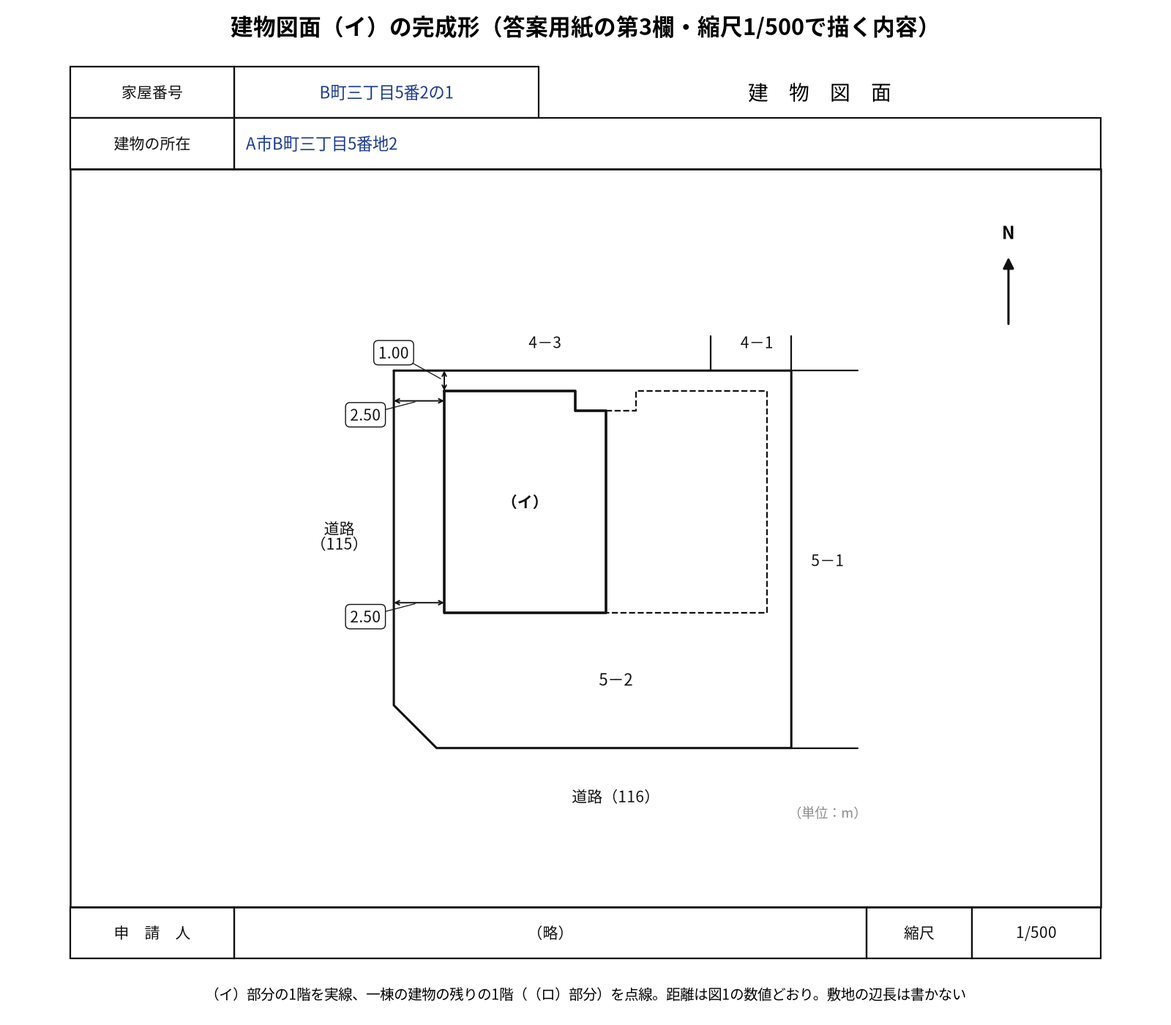
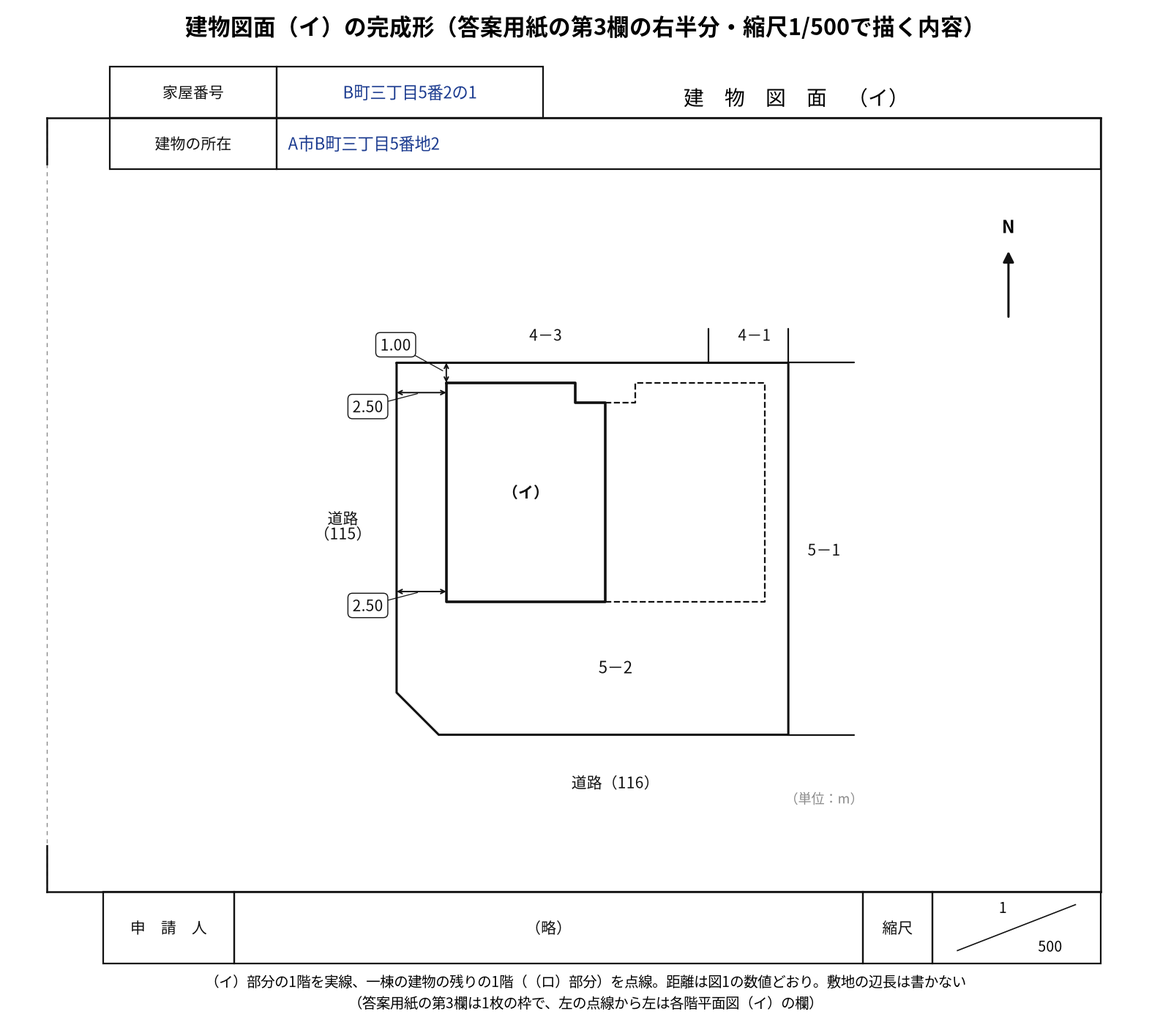
R3 Q22：試験の答案用紙の実物に合わせて第3欄の建物図面・各階平面図の枠を描き直した
第3欄は1枚の枠の左半分が各階平面図（イ）、右半分が建物図面（イ）で、家屋番号・建物の所在の欄は建物図面の上だけ、作成者・申請人は（略）、作成日「（令和3年○月○日作成）」、縮尺は分数の印刷。図3・図7・記事・プロンプトを直した。申請書は実物と一致。照合スクリプトで答案用紙PDFの印刷文字を確かめるようにした。答えは変えていない（verify NG 0件、lint違反なし、重なり0件）。

Claude-Session: https://claude.ai/code/session_014aMAcBjFaE2M2LioX2yxPf

diff --git a/note-articles-Kijyutsu/R3/Q22/zu/draw_R3_dai22mon_kaisetsuzu.py b/note-articles-Kijyutsu/R3/Q22/zu/draw_R3_dai22mon_kaisetsuzu.py
@@ -2,7 +2,8 @@
 
 `../prompt_R3_dai22mon_kaisetsuzu.md` の図1〜図9どおり（番号は記事の挿入順）。作図の共通部品は `tools/zu_helpers.py`。
 図3（建物図面）と図7（各階平面図）の完成形は、答案用紙の第3欄の欄（家屋番号・建物の所在・申請人・作成者・縮尺）の形の枠の中に描く
-（試験の答案用紙がリポジトリにないため、欄の形は令和4年度・平成29年度の答案用紙にならった仮のもの）。
+（欄の形は試験の答案用紙 `../touan_youshi/` で確かめた。第3欄は1枚の用紙の左半分が各階平面図（イ）、右半分が建物図面（イ）で、
+図3は右半分、図7は左半分を描く。申請人・作成者の欄は「（略）」、作成の日付は「（令和3年○月○日作成）」と印刷済み）。
 建物の座標は (東, 南) で持ち（原点は一棟の建物の北西の角の、壁の中心線の交点）、zu_helpers の (北, 東) には
 B() で変換する（北 ＝ −南）。図8だけは（ロ）部分の北西の角（一棟の建物の座標では東8.00）を原点にする。
 敷地は座標値一覧表がないので、図1の辺長から組み立てた座標（西側の線を東0、南側の線を北0）を使う。
@@ -206,32 +207,57 @@ INK = '#1a3a8f'   # 記入（濃い青）
 
 
 def cell(fig, x0, y0, x1, y1, text='', fs=14, ha='center', lw=1.6, color=BLACK):
-    """答案用紙の欄（図の座標 0〜1）。欄の形は令和4年度・平成29年度の答案用紙にならった仮のもの（プロンプトの図3・図7に注記）。"""
+    """答案用紙の欄（図の座標 0〜1）。欄の形は試験の答案用紙（../touan_youshi/）の第3欄どおり。"""
     fig.add_artist(Rectangle((x0, y0), x1 - x0, y1 - y0, transform=fig.transFigure, fill=False, lw=lw, ec=BLACK))
     if text:
         x = (x0 + x1) / 2 if ha == 'center' else x0 + 0.01
         fig.text(x, (y0 + y1) / 2, text, ha=ha, va='center', fontsize=fs, color=color)
 
 
+def frac_cell(fig, x0, y0, x1, y1, den):
+    """縮尺の欄（答案用紙の印刷どおり、左上に「1」、右下に分母、その間に斜めの線）。"""
+    fig.add_artist(Rectangle((x0, y0), x1 - x0, y1 - y0, transform=fig.transFigure, fill=False, lw=1.6, ec=BLACK))
+    w, h = x1 - x0, y1 - y0
+    fig.add_artist(plt.Line2D([x0 + 0.15 * w, x0 + 0.85 * w], [y0 + 0.18 * h, y0 + 0.82 * h],
+                              transform=fig.transFigure, lw=1.2, color=BLACK))
+    fig.text(x0 + 0.42 * w, y0 + 0.78 * h, '1', ha='center', va='center', fontsize=14)
+    fig.text(x0 + 0.70 * w, y0 + 0.24 * h, den, ha='center', va='center', fontsize=14)
+
+
+def sheet_frame(fig, x0, y0, x1, y1, cut):
+    """第3欄の図面の枠。答案用紙は1枚の枠を中央の短い目印で左右に分ける形なので、
+    切り取った側（cut='left' か 'right'）は灰色の点線にして、上下に短い目印の線を描く。"""
+    kw = dict(transform=fig.transFigure, color=BLACK, lw=1.8)
+    fig.add_artist(plt.Line2D([x0, x1], [y1, y1], **kw))
+    fig.add_artist(plt.Line2D([x0, x1], [y0, y0], **kw))
+    xs, xc = (x1, x0) if cut == 'left' else (x0, x1)
+    fig.add_artist(plt.Line2D([xs, xs], [y0, y1], **kw))
+    fig.add_artist(plt.Line2D([xc, xc], [y0, y1], transform=fig.transFigure, color=GRAY, lw=1.0, ls=(0, (4, 4))))
+    tick = 0.06 * (y1 - y0)
+    fig.add_artist(plt.Line2D([xc, xc], [y1, y1 - tick], **kw))
+    fig.add_artist(plt.Line2D([xc, xc], [y0, y0 + tick], **kw))
+
+
 def zu03():
     setup_font()
     fig = plt.figure(figsize=(16, 14), dpi=100)
     fig.patch.set_facecolor('white')
-    fig.suptitle('建物図面（イ）の完成形（答案用紙の第3欄・縮尺1/500で描く内容）', fontsize=22, weight='bold', y=0.985)
-    # 答案用紙の欄（家屋番号・建物の所在・申請人・縮尺）
-    cell(fig, 0.06, 0.885, 0.20, 0.935, '家屋番号', fs=15)
-    cell(fig, 0.20, 0.885, 0.46, 0.935, 'B町三丁目5番2の1', fs=16, color=INK)
-    fig.text(0.70, 0.910, '建　物　図　面', ha='center', va='center', fontsize=20)
-    cell(fig, 0.06, 0.835, 0.20, 0.885, '建物の所在', fs=15)
-    cell(fig, 0.20, 0.835, 0.94, 0.885, 'A市B町三丁目5番地2', fs=16, ha='left', color=INK)
-    cell(fig, 0.06, 0.115, 0.94, 0.835, lw=1.8)
-    cell(fig, 0.06, 0.065, 0.20, 0.115, '申　請　人', fs=15)
-    cell(fig, 0.20, 0.065, 0.74, 0.115, '（略）', fs=15)
-    cell(fig, 0.74, 0.065, 0.83, 0.115, '縮尺', fs=15)
-    cell(fig, 0.83, 0.065, 0.94, 0.115, '1/500', fs=15)
-    fig.text(0.5, 0.03, '（イ）部分の1階を実線、一棟の建物の残りの1階（（ロ）部分）を点線。距離は図1の数値どおり。敷地の辺長は書かない',
-             ha='center', va='center', fontsize=14)
-    ax = fig.add_axes([0.08, 0.13, 0.84, 0.69])
+    fig.suptitle('建物図面（イ）の完成形（答案用紙の第3欄の右半分・縮尺1/500で描く内容）', fontsize=22, weight='bold', y=0.985)
+    # 答案用紙の第3欄の右半分（試験の答案用紙どおり。家屋番号・建物の所在の欄は建物図面の上、申請人は「（略）」と印刷）
+    cell(fig, 0.094, 0.885, 0.236, 0.935, '家屋番号', fs=15)
+    cell(fig, 0.236, 0.885, 0.464, 0.935, 'B町三丁目5番2の1', fs=16, color=INK)
+    fig.text(0.68, 0.905, '建　物　図　面　（イ）', ha='center', va='center', fontsize=20)
+    sheet_frame(fig, 0.04, 0.13, 0.94, 0.885, cut='left')
+    cell(fig, 0.094, 0.835, 0.236, 0.885, '建物の所在', fs=15)
+    cell(fig, 0.236, 0.835, 0.94, 0.885, 'A市B町三丁目5番地2', fs=16, ha='left', color=INK)
+    cell(fig, 0.088, 0.06, 0.200, 0.13, '申　請　人', fs=15)
+    cell(fig, 0.200, 0.06, 0.737, 0.13, '（略）', fs=15)
+    cell(fig, 0.737, 0.06, 0.796, 0.13, '縮尺', fs=15)
+    frac_cell(fig, 0.796, 0.06, 0.94, 0.13, '500')
+    fig.text(0.5, 0.032, '（イ）部分の1階を実線、一棟の建物の残りの1階（（ロ）部分）を点線。距離は図1の数値どおり。敷地の辺長は書かない\n'
+             '（答案用紙の第3欄は1枚の枠で、左の点線から左は各階平面図（イ）の欄）',
+             ha='center', va='center', fontsize=14, linespacing=1.5)
+    ax = fig.add_axes([0.08, 0.145, 0.84, 0.68])
     z = Zu(ax, fontsize=14)
     fit(ax, SITE, margin=0.10, extra=[(-4.5, 25.0), (23.5, -4.2)], pad_aspect=True)
     z.north_arrow()
@@ -347,15 +373,19 @@ def zu07():
     setup_font()
     fig = plt.figure(figsize=(18, 11), dpi=100)
     fig.patch.set_facecolor('white')
-    fig.suptitle('各階平面図（イ）の完成形（答案用紙の第3欄・縮尺1/250で描く内容）', fontsize=22, weight='bold', y=0.975)
-    fig.text(0.5, 0.905, '各　階　平　面　図', ha='center', va='center', fontsize=20)
-    cell(fig, 0.04, 0.13, 0.96, 0.88, lw=1.8)
-    cell(fig, 0.04, 0.06, 0.14, 0.13, '作　成　者', fs=15)
-    cell(fig, 0.14, 0.06, 0.78, 0.13, '（略）　　　　　　　　　　　　（令和何年何月何日作成）', fs=15)
-    cell(fig, 0.78, 0.06, 0.86, 0.13, '縮尺', fs=15)
-    cell(fig, 0.86, 0.06, 0.96, 0.13, '1/250', fs=15)
-    fig.text(0.5, 0.025, '内法の寸法で1階・2階を書き分け、区分後の符号（イ）を付ける。2階には1階の北東の欠けの位置を点線で示す。'
-             '△印は各階の重なる柱の位置（図4の（注）4）。求積表と床面積を各階の横に書く', ha='center', va='center', fontsize=14)
+    fig.suptitle('各階平面図（イ）の完成形（答案用紙の第3欄の左半分・縮尺1/250で描く内容）', fontsize=22, weight='bold', y=0.975)
+    # 答案用紙の第3欄の左半分（試験の答案用紙どおり。作成者は「（略）」、作成の日付は「（令和3年○月○日作成）」と印刷）
+    fig.text(0.50, 0.905, '各　階　平　面　図　（イ）', ha='center', va='center', fontsize=20)
+    sheet_frame(fig, 0.04, 0.13, 0.96, 0.88, cut='right')
+    cell(fig, 0.04, 0.06, 0.154, 0.13, '作　成　者', fs=15)
+    cell(fig, 0.154, 0.06, 0.697, 0.13)
+    fig.text(0.28, 0.105, '（略）', ha='center', va='center', fontsize=15)
+    fig.text(0.685, 0.075, '（令和3年○月○日作成）', ha='right', va='center', fontsize=15)
+    cell(fig, 0.697, 0.06, 0.758, 0.13, '縮尺', fs=15)
+    frac_cell(fig, 0.758, 0.06, 0.90, 0.13, '250')
+    fig.text(0.5, 0.030, '内法の寸法で1階・2階を書き分け、区分後の符号（イ）を付ける。2階には1階の北東の欠けの位置を点線で示す。'
+             '△印は各階の重なる柱の位置（図4の（注）4）。求積表と床面積を各階の横に書く\n'
+             '（答案用紙の第3欄は1枚の枠で、右の点線から右は建物図面（イ）の欄）', ha='center', va='center', fontsize=14, linespacing=1.5)
     axes = [fig.add_axes([0.05, 0.16, 0.25, 0.66]), fig.add_axes([0.50, 0.16, 0.25, 0.66])]
     zs = []
     tables = ['1階\n6.30×1.00＝6.3000\n7.80×9.80＝76.4400\n計　82.7400\n床面積　82.74㎡',

diff --git a/note-articles-Kijyutsu/R3/Q22/verify_R3_dai22mon.py b/note-articles-Kijyutsu/R3/Q22/verify_R3_dai22mon.py
@@ -286,11 +286,11 @@ ZU = os.path.join(HERE, 'zu')
 markers = [l for l in lines if l.startswith('> 【画像挿入】')]
 PNGS = [('R3_dai22mon_zu01_kubun_zentaizou', '縦割りで区分される様子'),
         ('R3_dai22mon_zu02_shikichi_henchou', '辺長確認図'),
-        ('R3_dai22mon_zu03_tatemono_zumen', '建物図面（イ）の完成形。答案用紙の第3欄の建物図面の枠（家屋番号「B町三丁目5番2の1」'),
+        ('R3_dai22mon_zu03_tatemono_zumen', '建物図面（イ）の完成形。答案用紙の第3欄の右半分の建物図面（イ）の枠（上に家屋番号「B町三丁目5番2の1」'),
         ('R3_dai22mon_zu04_ayamari_hikaku', '誤り比較図'),
         ('R3_dai22mon_zu05_1kai_kyuuseki', '（イ）部分1階の床面積求積図'),
         ('R3_dai22mon_zu06_2kai_kyuuseki', '（イ）部分2階の床面積求積図'),
-        ('R3_dai22mon_zu07_kakukai_heimenzu', '第3欄の各階平面図の枠（作成者、縮尺1/250）の中に描いた（イ）部分の各階平面図の完成形'),
+        ('R3_dai22mon_zu07_kakukai_heimenzu', '第3欄の左半分の各階平面図（イ）の枠（作成者は「（略）」と作成の日付が印刷済み、縮尺1/250）の中に描いた（イ）部分の各階平面図の完成形'),
         ('R3_dai22mon_toukishinseisho_machigai', '①誤答'),
         ('R3_dai22mon_toukishinseisho_kansei', '登記申請書（問1）の完成形'),
         ('R3_dai22mon_zu08_toi2_kyuuseki', '問2の求積図'),
@@ -349,8 +349,8 @@ check('添削：縦に積む', '3コマを縦に積み', fix, '添削')
 absent('横1600px', '1600px', fix, '添削')
 absent('記号', '✓', fix, '添削')
 absent('横1800px', '1800px', form, '申請書')
-for bad in ['✕', '✓', '○']:
-    absent('記号（解説図）', bad, fig, '解説図')
+for bad in ['✕', '✓', '○']:   # 答案用紙に印刷された作成の日付「（令和3年○月○日作成）」の○は記号ではないので除く
+    absent('記号（解説図）', bad, fig.replace('（令和3年○月○日作成）', ''), '解説図')
 drw = open(os.path.join(ZU, 'draw_R3_dai22mon_kaisetsuzu.py'), encoding='utf-8').read()
 fits = re.findall(r'\bfit\(ax[^\n]*', drw) + re.findall(r'\bfit\(axes\[[012]\][^\n]*', drw)
 ok = fits and all('pad_aspect=True' in f for f in fits)
@@ -370,11 +370,62 @@ check('時間配分', 'いちばん時間を食うのは、（イ）部分の内
 check('先に書ける欄（第1欄）', '- 第1欄：登記の目的、添付書類、登録免許税、申請人、一棟の建物の表示、敷地権の目的である土地の表示、区分前の行、区分後の行の家屋番号・種類・構造・原因、敷地権の表示')
 check('先に書ける欄（第2欄）', '- 第2欄：①の登記の目的と、③の添付書類')
 check('残る欄', '残るのは、第1欄の床面積と第3欄、それに問2の②だけなんですね')
-for s_ in ["'B町三丁目5番2の1'", "'A市B町三丁目5番地2'", "'（略）'", "'1/500'", "'1/250'", "'R3_dai22mon_zu07_kakukai_heimenzu'",
+for s_ in ["'B町三丁目5番2の1'", "'A市B町三丁目5番地2'", "'（略）'", "'500')", "'250')", "'R3_dai22mon_zu07_kakukai_heimenzu'",
            "'R3_dai22mon_zu09_toku_junban.png'", '床面積　82.74㎡', '床面積　84.24㎡',
            'round(area_es(I1), 4) == 82.74 and round(area_es(I2), 4) == 84.24']:
     check('作図スクリプト（図3・図7の枠と記入、図9）', s_, drw, '作図')
-check('枠の形は仮', '欄の形の出典：**仮のもの**', fig, '解説図')
+
+# ---- 2026-10-02 試験の答案用紙（touan_youshi/）の実物で欄の形を確かめた分 ----
+import pymupdf as fitz  # noqa: E402
+_pdf = fitz.open(os.path.join(HERE, 'touan_youshi', 'R3_dai22mon_touan_youshi.pdf'))
+_p1 = re.sub(r'\s+', '', _pdf[0].get_text())
+_p2 = re.sub(r'\s+', '', _pdf[1].get_text())
+# 答案用紙の印刷文字（実物のテキスト層）
+for s_ in ['登記の目的', '添付書類', '登録免許税', '代理人', '（略）', '令和3年10月17日申請Ｅ地方法務局',
+           '区分した建物の表示欄（イ）', '主である建物又は附属建物', '敷地権の割合', '（あ）部分', '（い）部分等']:
+    ok_ = s_ in _p1
+    ng += (not ok_)
+    print(('OK ' if ok_ else 'NG ') + f'[答案用紙1ページ目] 印刷文字 : {s_}')
+for s_ in ['各階平面図（イ）', '建物図面（イ）', '家屋番号', '建物の所在', '作成者（略）', '（令和3年○月○日作成）',
+           '申請人（略）', '縮尺1250', '縮尺1500']:
+    ok_ = s_ in _p2
+    ng += (not ok_)
+    print(('OK ' if ok_ else 'NG ') + f'[答案用紙2ページ目] 印刷文字 : {s_}')
+# 登記申請書の項目の順序（実物）：登記の目的 → 添付書類 → 登録免許税 → 申請人 → 代理人 → 申請日
+_ord = [_p1.index(k) for k in ['登記の目的', '添付書類', '登録免許税', '代理人', '令和3年10月17日']]
+ok_ = _ord == sorted(_ord)
+ng += (not ok_)
+print(('OK ' if ok_ else 'NG ') + ' [答案用紙1ページ目] 項目の順序 : 登記の目的→添付書類→登録免許税→代理人→申請日')
+# 作図スクリプト（図3・図7）の欄の形が実物どおりか
+for s_ in ["'建　物　図　面　（イ）'", "'各　階　平　面　図　（イ）'", "'家屋番号'", "'建物の所在'", "'申　請　人'", "'作　成　者'",
+           "'（令和3年○月○日作成）'", "frac_cell(fig, 0.796, 0.06, 0.94, 0.13, '500')", "frac_cell(fig, 0.758, 0.06, 0.90, 0.13, '250')",
+           "cut='left'", "cut='right'", '答案用紙の第3欄の右半分', '答案用紙の第3欄の左半分']:
+    check('作図スクリプト（第3欄の実物の欄の形）', s_, drw, '作図')
+_zu3 = drw[drw.index('def zu03'):drw.index('def zu04')]
+_zu7 = drw[drw.index('def zu07'):drw.index('def zu08')]
+ok_ = "'（略）'" in _zu3 and '（略）' in _zu7
+ng += (not ok_)
+print(('OK ' if ok_ else 'NG ') + ' [作図] 申請人・作成者の欄は「（略）」（印刷済みなので氏名を書かない）')
+# 申請書のHTML（実物の欄の名前・順序）
+_html = open(os.path.join(ZU, 'R3_dai22mon_toukishinseisho_kansei.html'), encoding='utf-8').read()
+_ordh = [_html.index(k) for k in ['登記の目的', '添　付　書　類', '登録免許税', '申　　請　　人', '代　　理　　人', '令和３年10月17日　申請　Ｅ地方法務局',
+                                  '一棟の建物の表示', '敷地権の目的である土地の表示', '区分した建物の表示欄（イ）', '敷地権の表示']]
+ok_ = _ordh == sorted(_ordh)
+ng += (not ok_)
+print(('OK ' if ok_ else 'NG ') + ' [申請書HTML] 欄の順序が答案用紙どおり')
+_dai2 = open(os.path.join(ZU, 'R3_dai22mon_dai2ran_kansei.html'), encoding='utf-8').read()
+for s_ in ['登記の目的', '敷地権の割合', '（あ）部分', '（い）部分等', '添付書類']:
+    check('第2欄HTMLの印刷文字', s_, _dai2, '第2欄HTML')
+check('答案用紙で確かめた（解説図）', '試験の答案用紙（`touan_youshi/R3_dai22mon_touan_youshi.pdf` の2ページ目、第3欄）で確かめた', fig, '解説図')
+check('答案用紙で確かめた（申請書）', '試験の答案用紙（`touan_youshi/R3_dai22mon_touan_youshi.pdf` の1ページ目）で確かめた', form, '申請書')
+check('記事：第3欄の形', '答案用紙の第3欄は1枚の枠で、左半分が各階平面図（イ）、右半分が建物図面（イ）')
+check('記事：申請人の（略）', '申請人の欄は『（略）』と印刷済みだから、氏名は書かなくていいの')
+check('記事：作成者の（略）', '作成者の欄は『（略）』、作成の日付も『（令和3年○月○日作成）』と印刷済み')
+# 「仮」の文言が残っていないこと
+for nm, src_ in [('記事', text), ('解説図', fig), ('申請書', form), ('添削', fix), ('作図', drw),
+                 ('申請書スクリプト', open(os.path.join(ZU, 'make_R3_dai22mon_shinseisho_gazou.py'), encoding='utf-8').read())]:
+    for w_ in ['仮のもの', '仮の形', 'リポジトリにない', 'リポジトリになく', '令和何年何月何日']:
+        absent(f'{nm}に「仮」の記述', w_, src_, nm)
 check('図7の点線', '(6.4, 0.1)→(6.4, 1.1)→(7.9, 1.1)', fig, '解説図')
 check('図7の求積表', '1階／6.30×1.00＝6.3000／7.80×9.80＝76.4400／計　82.7400／床面積　82.74㎡', fig, '解説図')
 check('図9の順番', '⑦問2の②と見直し（71.50・9.70→33088分の7150・9394）', fig, '解説図')

diff --git a/note-articles-Kijyutsu/R3/Q22/zu/make_R3_dai22mon_shinseisho_gazou.py b/note-articles-Kijyutsu/R3/Q22/zu/make_R3_dai22mon_shinseisho_gazou.py
@@ -6,6 +6,7 @@ HTML＋ヘッドレスブラウザでPNGに書き出す。
   敷地権の表示・第2欄）の欄を、左の列 → 右の列の順に縦に積む。項目の順序は答案用紙の印刷どおり
   「登記の目的 → 添付書類 → 登録免許税 → 申請人 → 代理人（略） → 令和3年10月17日　申請　Ｅ地方法務局」。
   一棟の建物の表示の②床面積は、整数部｜小数部に分けたセルが左右に2つ（左に1階、右に2階）
+  欄の形・欄の名前・印刷文字は試験の答案用紙（../touan_youshi/R3_dai22mon_touan_youshi.pdf の1ページ目）で確かめた。
 - 第2欄：①登記の目的、②敷地権の割合（（あ）部分・（い）部分等）、③添付書類（答案用紙の右下の欄の形）
 - 添削　：`../prompt_R3_dai22mon_toukishinseisho_machigai.md` どおり。①誤答・②添削・③正解の3コマを縦に積んだ縦長（横1200px）
 

diff --git a/note-articles-Kijyutsu/R3/Q22/prompt_R3_dai22mon_kaisetsuzu.md b/note-articles-Kijyutsu/R3/Q22/prompt_R3_dai22mon_kaisetsuzu.md
@@ -10,17 +10,17 @@
 
 - 図1：区分の全体像（縦割りの区分と、問2の再区分）（第1章用）
 - 図2：本件土地（敷地）の辺長確認図（作図チェック用）（第2章用）
-- 図3：建物図面（イ）の完成形（答案用紙の第3欄の建物図面の枠の中。筆界からの距離）（第2章用）
+- 図3：建物図面（イ）の完成形（答案用紙の第3欄の右半分の建物図面（イ）の枠の中。筆界からの距離）（第2章用）
 - 図4：（イ）部分1階の誤り比較図「誤り：壁心／正解：内法」（第3章用）
 - 図5：（イ）部分1階の床面積求積図（第3章用）
 - 図6：（イ）部分2階の床面積求積図（1階の欠けを点線で重ねる）（第3章用）
-- 図7：各階平面図（イ）の完成形（答案用紙の第3欄の各階平面図の枠の中）（第3章用）
+- 図7：各階平面図（イ）の完成形（答案用紙の第3欄の左半分の各階平面図（イ）の枠の中）（第3章用）
 - 図8：問2の求積図（（あ）部分と（い）部分等）（第5章用）
 - 図9：本番で解く順番（第5章用）
 
 ## 生成済みの画像（2026-09-29、2026-10-02更新）
 
-このプロンプトどおりに、このリポジトリで作図済み（`zu/draw_R3_dai22mon_kaisetsuzu.py`。`tools/zu_helpers.py` を使い、`fit` はすべて `pad_aspect=True`、重なりの自動検査0件・目視確認済み）。2026-10-02に、最新の執筆プロンプト（図面の完成形は答案用紙の欄の枠の中に描く、各階平面図の完成形を求積図とは別に作る、本番で解く順番の図）に合わせて、図3を第3欄の枠の中に描き直し、図7（各階平面図の完成形）と図9（解く順番）を加え、問2の求積図を図8に振り直した（番号は記事の挿入順）。
+このプロンプトどおりに、このリポジトリで作図済み（`zu/draw_R3_dai22mon_kaisetsuzu.py`。`tools/zu_helpers.py` を使い、`fit` はすべて `pad_aspect=True`、重なりの自動検査0件・目視確認済み）。2026-10-02に、最新の執筆プロンプト（図面の完成形は答案用紙の欄の枠の中に描く、各階平面図の完成形を求積図とは別に作る、本番で解く順番の図）に合わせて、図3を第3欄の枠の中に描き直し、図7（各階平面図の完成形）と図9（解く順番）を加え、問2の求積図を図8に振り直した（番号は記事の挿入順）。同日、試験の答案用紙（`touan_youshi/`）を受け取り、図3・図7の欄の枠を実物どおりに直した（第3欄は1枚の枠の左半分が各階平面図（イ）・右半分が建物図面（イ）で、図3は右半分、図7は左半分を描く。家屋番号・建物の所在の欄は建物図面の上、表題に「（イ）」、申請人・作成者は「（略）」、作成の日付は「（令和3年○月○日作成）」、縮尺は分数の形で印刷）。
 
 - 図1：`zu/R3_dai22mon_zu01_kubun_zentaizou.png`
 - 図2：`zu/R3_dai22mon_zu02_shikichi_henchou.png`
@@ -129,10 +129,10 @@
 
 ### 答案用紙の欄の枠（執筆プロンプトの「図面の完成形の図は答案用紙の第3欄の枠の中に」）
 
-- 図の上に「家屋番号」（記入欄に濃い青で「B町三丁目5番2の1」）、右に「建　物　図　面」の表題、その下に「建物の所在」（記入欄に濃い青で「A市B町三丁目5番地2」）。記入は記事第2章のトリ先生のセリフと同じ
-- 図の下に「申　請　人」（「（略）」）、「縮尺」（「1/500」）
-- 欄の形の出典：**仮のもの**。令和3年度の試験の答案用紙（第3欄）はリポジトリになく、今回の作業でも手元になかった（2026-09-29の作業で第1欄・第2欄の形を確かめた記録と、第3欄は左に各階平面図・右に建物図面を同じ用紙に描く形という記録だけがある）。欄の形は同じ形式の令和4年度・平成29年度の答案用紙（家屋番号・建物の所在の記入欄、申請人・作成者は「（略）」と印刷。R5/Q22の図3・図7と同じ形）にならい、建物図面と各階平面図を別の画像にした。試験の答案用紙で「（略）」の印刷の有無を確かめたら、ここと作図スクリプトを合わせて直す
-- 図の題：「建物図面（イ）の完成形（答案用紙の第3欄・縮尺1/500で描く内容）」。枠の下に小さく「（イ）部分の1階を実線、一棟の建物の残りの1階（（ロ）部分）を点線。距離は図1の数値どおり。敷地の辺長は書かない」
+- 欄の形の出典：試験の答案用紙（`touan_youshi/R3_dai22mon_touan_youshi.pdf` の2ページ目、第3欄）で確かめた（2026-10-02）。第3欄は**1枚の枠**（A3横）で、左半分が「各　階　平　面　図　（イ）」、右半分が「建　物　図　面　（イ）」（表題に「（イ）」まで印刷）。枠の上下の中央に短い目印の線があるだけで、左右を分ける線は引かれていない。図3はこの**右半分**を描き、左の端は灰色の点線（切り取った側）にして上下に短い目印の線を描く
+- 右半分の上：左寄りに「家屋番号」（記入欄に濃い青で「B町三丁目5番2の1」。欄は短く、枠の上の線より上に出る）、その右に表題「建　物　図　面　（イ）」。家屋番号の欄のすぐ下、枠の上の線の内側に「建物の所在」（記入欄は右の枠線まで。濃い青で「A市B町三丁目5番地2」）。記入は記事第2章のトリ先生のセリフと同じ
+- 右半分の下（枠の下の線の外）：「申　請　人」（「（略）」と印刷済みなので氏名は書かない）、「縮尺」、縮尺の欄は「1」と「500」を斜めの線で分けた分数の形で印刷済み
+- 図の題：「建物図面（イ）の完成形（答案用紙の第3欄の右半分・縮尺1/500で描く内容）」。枠の下に小さく2行で「（イ）部分の1階を実線、一棟の建物の残りの1階（（ロ）部分）を点線。距離は図1の数値どおり。敷地の辺長は書かない」「（答案用紙の第3欄は1枚の枠で、左の点線から左は各階平面図（イ）の欄）」
 
 ### 作図内容
 
@@ -257,7 +257,10 @@
 
 ### 答案用紙の欄の枠
 
-- 枠の上に「各　階　平　面　図」、枠の下に「作　成　者」（「（略）」「（令和何年何月何日作成）」）、「縮尺」（「1/250」）。欄の形の出典は図3と同じ（**仮のもの**。令和4年度・平成29年度の答案用紙にならった。試験の答案用紙で確かめたら合わせて直す）
+- 欄の形の出典は図3と同じ試験の答案用紙（第3欄）。図7は1枚の枠の**左半分**を描き、右の端は灰色の点線（切り取った側）にして上下に短い目印の線を描く
+- 枠の上の中央に表題「各　階　平　面　図　（イ）」（印刷）。家屋番号・建物の所在の欄は右半分（建物図面の上）にだけあり、左半分にはない
+- 枠の下（枠の下の線の外）：「作　成　者」の欄に「（略）」と、欄の右下に「（令和3年○月○日作成）」が印刷済み（作成者の氏名も作成の日付も書かない）。その右に「縮尺」と、「1」と「250」を斜めの線で分けた分数の形の印刷
+- 枠の下に小さく2行で、作図の要点と「（答案用紙の第3欄は1枚の枠で、右の点線から右は建物図面（イ）の欄）」
 
 ### 作図内容（建物の座標は図5・図6と同じ。上が北、(Y, X)＝(東, 南)、内法の頂点）
 
@@ -267,7 +270,7 @@
 - 両方の図の北西の角に△印（各階の重なる柱の位置。図4の（注）4）、図の中に区分後の符号「（イ）」（不動産登記規則第84条）
 - 各図の右に求積表（不動産登記規則第83条第1項の「床面積及びその求積方法」）：1階「1階／6.30×1.00＝6.3000／7.80×9.80＝76.4400／計　82.7400／床面積　82.74㎡」、2階「2階／7.80×10.80＝84.2400／床面積　84.24㎡」
 - 塗り分け・説明の吹き出しは入れない。方位記号（N）を2階の図の余白に
-- 図の題：「各階平面図（イ）の完成形（答案用紙の第3欄・縮尺1/250で描く内容）」
+- 図の題：「各階平面図（イ）の完成形（答案用紙の第3欄の左半分・縮尺1/250で描く内容）」
 
 ---
 

diff --git a/note-articles-Kijyutsu/R3/Q22/note_R3_dai22mon_tatemono_kaisetsu.md b/note-articles-Kijyutsu/R3/Q22/note_R3_dai22mon_tatemono_kaisetsu.md
@@ -130,7 +130,9 @@
 **トリ先生**  
 「今回添付するのは（イ）部分の建物図面でしょう。（イ）部分の1階の形を実線で描いて、一棟の建物の残りの1階、つまり（ロ）部分の1階は点線で描くの。これで一棟のうちのどこが（イ）部分なのかが一目でわかるわ（区分建物は地上の最低階を描く。不動産登記規則第82条第1項、不動産登記事務取扱手続準則第52条第2項）。
 
-専有部分が1階以外にだけあるなら『建物の存する部分　2階』のように書き添えるけど、（イ）部分は1階から始まるから要らないわ。あとは本件土地の地番（5-2）、周りの地番（北の4-3・4-1、東の5-1）と道路（西の115、南の116）、方位。家屋番号の欄は『B町三丁目5番2の1』、建物の所在の欄は『A市B町三丁目5番地2』よ」
+専有部分が1階以外にだけあるなら『建物の存する部分　2階』のように書き添えるけど、（イ）部分は1階から始まるから要らないわ。あとは本件土地の地番（5-2）、周りの地番（北の4-3・4-1、東の5-1）と道路（西の115、南の116）、方位。家屋番号の欄は『B町三丁目5番2の1』、建物の所在の欄は『A市B町三丁目5番地2』よ。
+
+答案用紙の第3欄は1枚の枠で、左半分が各階平面図（イ）、右半分が建物図面（イ）。家屋番号と建物の所在の欄は、右半分の建物図面の上にあるわ。申請人の欄は『（略）』と印刷済みだから、氏名は書かなくていいの」
 
 **藍子**  
 「1階の形は、北側の真ん中が欠けた一棟の建物のうち、西半分の（イ）部分が実線、東半分の（ロ）部分が点線ですね」
@@ -144,7 +146,7 @@
 **トリ先生**  
 「そう。5番1も同じ栄一さんの土地だけど、所在に入るのは建物が乗っている筆だけよ」
 
-> 【画像挿入】建物図面（イ）の完成形。答案用紙の第3欄の建物図面の枠（家屋番号「B町三丁目5番2の1」、建物の所在「A市B町三丁目5番地2」、申請人、縮尺1/500）の中に、隅切りのある本件土地を描き、（イ）部分の1階（北東の角が欠けた形）を実線、（ロ）部分の1階を点線で描き、筆界からの距離（北1.00、西2.50・2.50）、隣接地の地番・道路、本件土地の地番、方位を記入した図（辺長は書かない）
+> 【画像挿入】建物図面（イ）の完成形。答案用紙の第3欄の右半分の建物図面（イ）の枠（上に家屋番号「B町三丁目5番2の1」・建物の所在「A市B町三丁目5番地2」の欄、下に「（略）」と印刷された申請人の欄と縮尺1/500）の中に、隅切りのある本件土地を描き、（イ）部分の1階（北東の角が欠けた形）を実線、（ロ）部分の1階を点線で描き、筆界からの距離（北1.00、西2.50・2.50）、隣接地の地番・道路、本件土地の地番、方位を記入した図（辺長は書かない）
 
 ---
 
@@ -229,9 +231,9 @@
 「各階平面図にも、求積の式と床面積を書くんですか？」
 
 **トリ先生**  
-「書くわ。各階平面図には、床面積とその求積方法も記録する決まり（不動産登記規則第83条第1項）。区分したあとの建物の図面だから、図に付けた符号の『（イ）』も入れるの（同規則第84条）。答案に書く形はこうよ」
+「書くわ。各階平面図には、床面積とその求積方法も記録する決まり（不動産登記規則第83条第1項）。区分したあとの建物の図面だから、図に付けた符号の『（イ）』も入れるの（同規則第84条）。答案用紙の第3欄の左半分に、こう書くの。作成者の欄は『（略）』、作成の日付も『（令和3年○月○日作成）』と印刷済みだから、書くのは図と求積よ」
 
-> 【画像挿入】答案用紙の第3欄の各階平面図の枠（作成者、縮尺1/250）の中に描いた（イ）部分の各階平面図の完成形。左に1階（内法の6.30・1.00・1.50・9.80・7.80・10.80、北西の△印、符号（イ））と求積（6.30×1.00＋7.80×9.80＝82.74㎡）、右に2階（7.80×10.80＝84.24㎡）と1階の北東の欠けの位置の点線を記入した図
+> 【画像挿入】答案用紙の第3欄の左半分の各階平面図（イ）の枠（作成者は「（略）」と作成の日付が印刷済み、縮尺1/250）の中に描いた（イ）部分の各階平面図の完成形。左に1階（内法の6.30・1.00・1.50・9.80・7.80・10.80、北西の△印、符号（イ））と求積（6.30×1.00＋7.80×9.80＝82.74㎡）、右に2階（7.80×10.80＝84.24㎡）と1階の北東の欠けの位置の点線を記入した図
 
 **藍子**  
 「（ロ）部分も（イ）部分と左右対称なので、1階82.74、2階84.24ですね。これ、あとで使いそうです」

diff --git a/note-articles-Kijyutsu/R3/Q22/prompt_R3_dai22mon_toukishinseisho_gazou.md b/note-articles-Kijyutsu/R3/Q22/prompt_R3_dai22mon_toukishinseisho_gazou.md
@@ -2,6 +2,7 @@
 
 これは共通テンプレート（`../../prompt_toukishinseisho-gazou_kihon-form_tatemono.md`）の考え方をもとに、本問が**非区分建物を2個の区分建物に分ける建物区分登記（敷地権あり）**であることに合わせて、「建物の表示」欄を「一棟の建物の表示」「敷地権の目的である土地の表示」「区分した建物の表示（イ）」「敷地権の表示」の4つの表に分けた版です（R5/Q22の区分建物の2段構成に、敷地権の2つの表が加わった形）。共通テンプレートから次の点を変えています。
 
+- 欄の形・欄の名前・項目の順序・印刷文字は、試験の答案用紙（`touan_youshi/R3_dai22mon_touan_youshi.pdf` の1ページ目）で確かめた（2026-10-02。予備校の再現ではなく実物どおり。登録免許税の欄あり、欄名は「添付書類」、代理人は「（略）」、申請の日付と提出先「令和3年10月17日　申請　Ｅ地方法務局」は代理人の下に印刷、区分した建物の表示と敷地権の表示・敷地権の目的である土地の表示の記入行は各2行、一棟の建物の表示の記入行は1行。前回の画像と違いはなかった）
 - 答案用紙は**横長（A3横）**で、左半分に登記申請書の上部・一棟の建物の表示・敷地権の目的である土地の表示、右半分に区分した建物の表示欄（イ）・敷地権の表示・第2欄が並ぶ。画像は横1200pxの縦長にそろえるため（2026-09-29の依頼文）、**左の列の欄 → 右の列の欄の順に縦に積む**（欄の形・欄の名前・項目の順序は答案用紙どおり）。第1欄の画像とは別に、第2欄の完成形も1枚作る（下の「第2欄の画像」）
 - 項目の順序は「登記の目的 → 添付書類 → 登録免許税 → 申請人 → 代理人（略） → 申請日・法務局」（答案用紙の印刷どおり。登録免許税が申請人より上、申請日・法務局が代理人より下）
 - 区分した建物の表示の見出し行は「家屋番号」「建物の名称」「主である建物又は附属建物」「①種類」「②構造」「③床面積（m²）」「原因及びその日付」の7列
